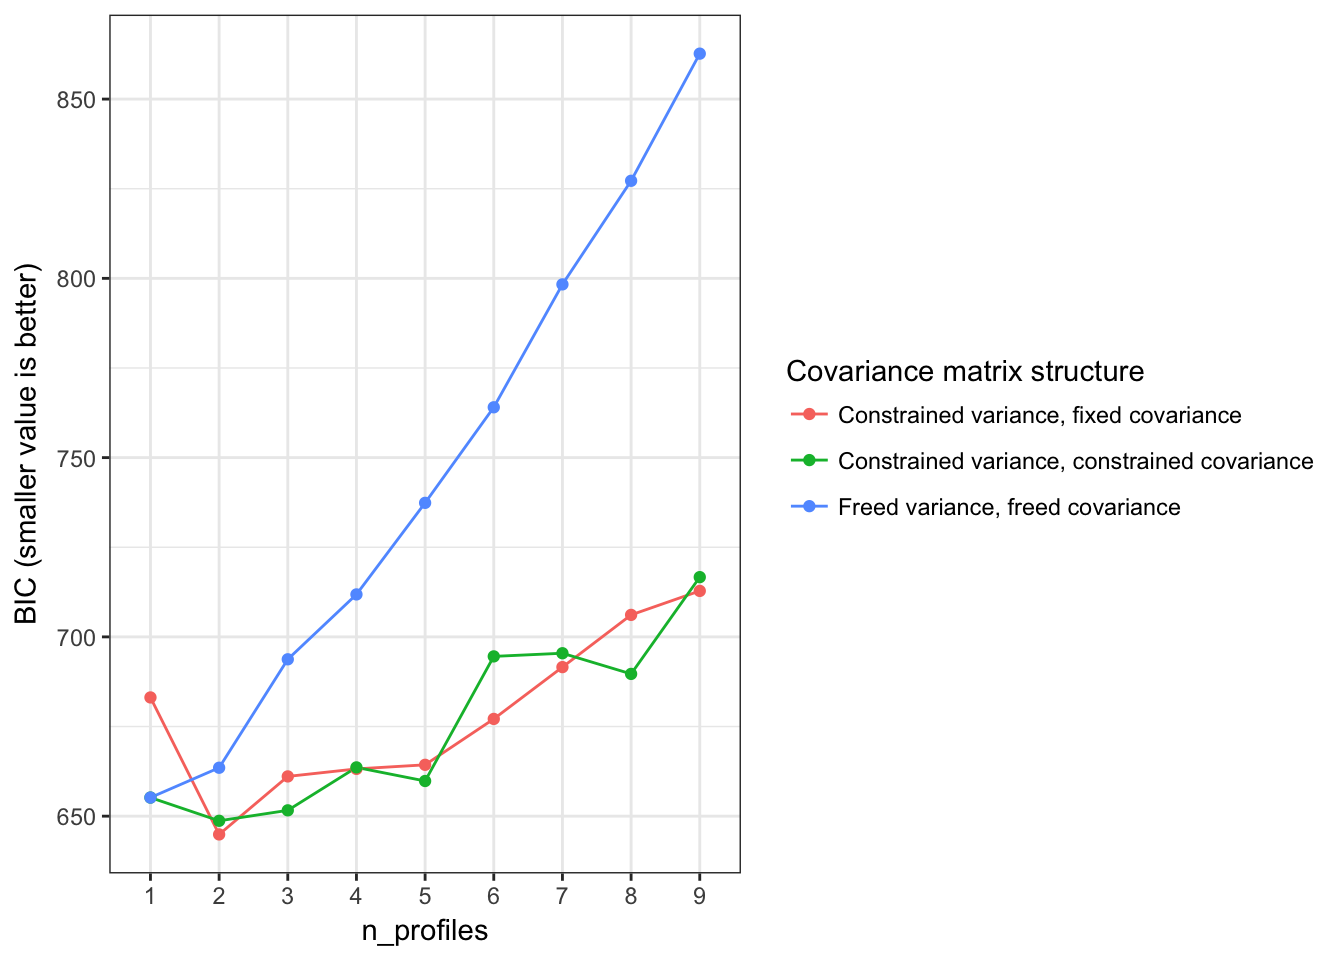
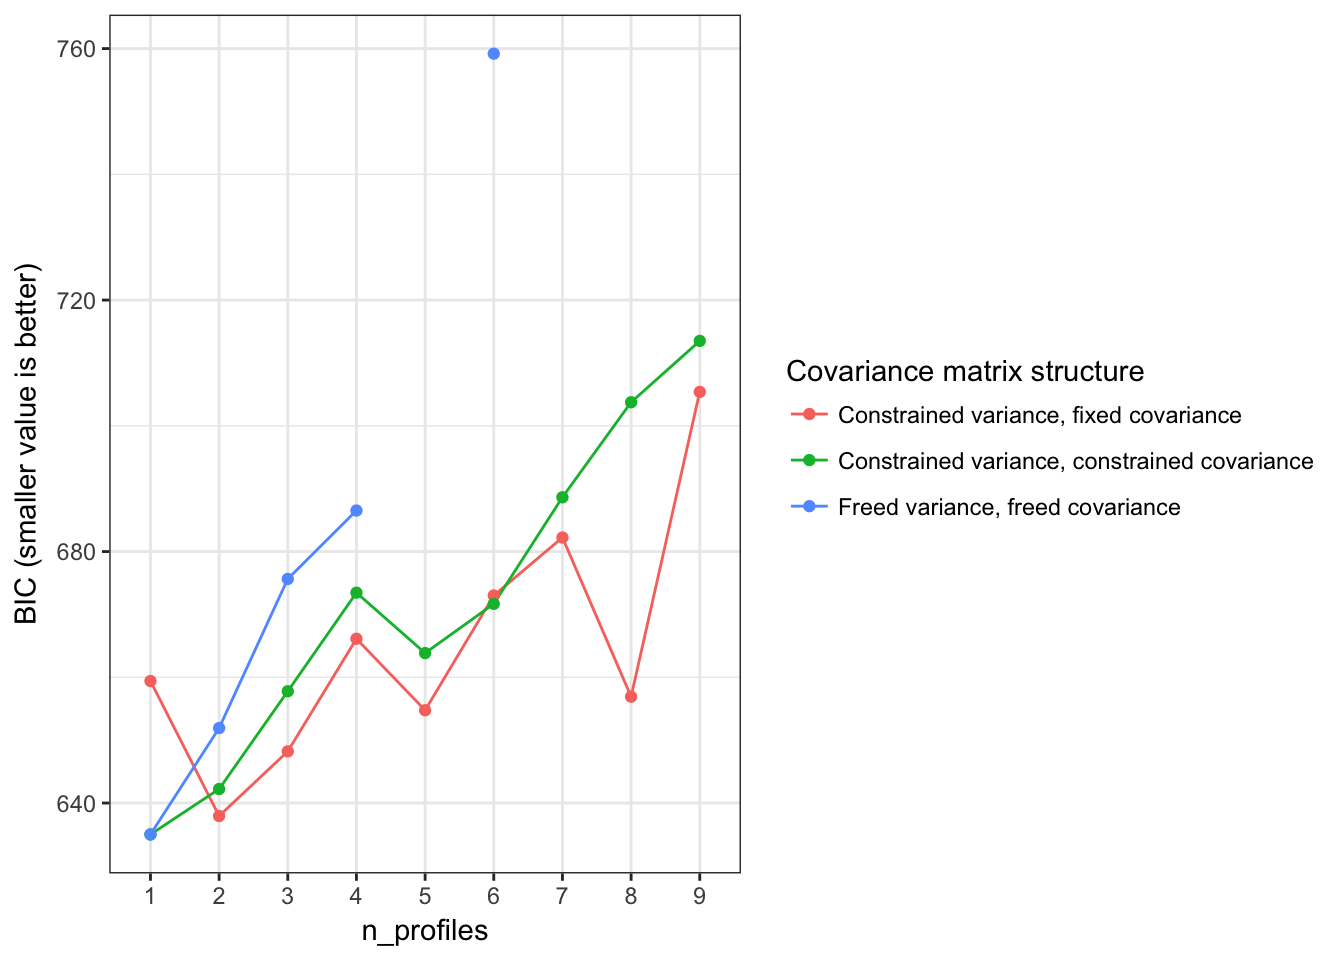
update docs

diff --git a/docs/articles/Introduction_to_tidyLPA.html b/docs/articles/Introduction_to_tidyLPA.html
@@ -73,24 +73,26 @@
 <div class="sourceCode"><pre class="sourceCode r"><code class="sourceCode r">d &lt;-<span class="st"> </span>pisaUSA15
 d &lt;-<span class="st"> </span><span class="kw">sample_n</span>(pisaUSA15, <span class="dv">100</span>)
 <span class="kw"><a href="../reference/compare_models_lpa.html">compare_models_lpa</a></span>(d, broad_interest, enjoyment, self_efficacy, <span class="dt">statistic =</span> <span class="st">"BIC"</span>)</code></pre></div>
+<pre><code>## Warning: Removed 3 rows containing missing values (geom_path).</code></pre>
+<pre><code>## Warning: Removed 4 rows containing missing values (geom_point).</code></pre>
 <p><img src="Introduction_to_tidyLPA_files/figure-html/unnamed-chunk-2-1.png" width="672"></p>
 <p>We can explore a three profile solution, with, for example, <code>4</code> profiles, and varying means across profiles, but equal variances and covariances (specified with model = <code>2</code>):</p>
 <div class="sourceCode"><pre class="sourceCode r"><code class="sourceCode r">m3 &lt;-<span class="st"> </span><span class="kw"><a href="../reference/create_profiles_lpa.html">create_profiles_lpa</a></span>(d, broad_interest, enjoyment, self_efficacy, <span class="dt">n_profiles =</span> <span class="dv">4</span>, <span class="dt">model =</span> <span class="dv">2</span>)</code></pre></div>
 <pre><code>## Model with 4 profiles using the 'varying means, equal variances and covariances' model.</code></pre>
-<pre><code>## AIC is 610.191</code></pre>
-<pre><code>## BIC is 663.601</code></pre>
-<pre><code>## ICL is 682.328</code></pre>
-<pre><code>## Entropy is 0.91543</code></pre>
+<pre><code>## AIC is 619.605</code></pre>
+<pre><code>## BIC is 673.456</code></pre>
+<pre><code>## ICL is 714.647</code></pre>
+<pre><code>## Entropy is 0.82467</code></pre>
 <div class="sourceCode"><pre class="sourceCode r"><code class="sourceCode r"><span class="kw"><a href="../reference/plot_profiles_lpa.html">plot_profiles_lpa</a></span>(m3, <span class="dt">to_center =</span> <span class="ot">TRUE</span>)</code></pre></div>
 <p><img src="Introduction_to_tidyLPA_files/figure-html/unnamed-chunk-3-1.png" width="672"></p>
 <p>See <code><a href="../reference/create_profiles_lpa.html">?create_profiles_lpa</a></code> for a description for the models.</p>
 <p>We could specify them as follows, whereby model <code>1</code> is for a model with varying means across profiles, but equal variances across profiles, and residual covariances fixed to zero, and model <code>3</code> is for a model with varying means, variances, and covariances across profiles:</p>
 <div class="sourceCode"><pre class="sourceCode r"><code class="sourceCode r">m3i &lt;-<span class="st"> </span><span class="kw"><a href="../reference/create_profiles_lpa.html">create_profiles_lpa</a></span>(d, broad_interest, enjoyment, self_efficacy, <span class="dt">n_profiles =</span> <span class="dv">3</span>, <span class="dt">model =</span> <span class="dv">1</span>)</code></pre></div>
 <pre><code>## Model with 3 profiles using the 'varying means, equal variances, and residual covariances fixed to zero' model.</code></pre>
-<pre><code>## AIC is 625.478</code></pre>
-<pre><code>## BIC is 661.085</code></pre>
-<pre><code>## ICL is 711.183</code></pre>
-<pre><code>## Entropy is 0.78626</code></pre>
+<pre><code>## AIC is 612.32</code></pre>
+<pre><code>## BIC is 648.221</code></pre>
+<pre><code>## ICL is 679.774</code></pre>
+<pre><code>## Entropy is 0.85893</code></pre>
 <p>This model has some trouble being fit, so is shown but is not run:</p>
 <div class="sourceCode"><pre class="sourceCode r"><code class="sourceCode r">m3ii &lt;-<span class="st"> </span><span class="kw"><a href="../reference/create_profiles_lpa.html">create_profiles_lpa</a></span>(d, broad_interest, enjoyment, self_efficacy, <span class="dt">n_profiles =</span> <span class="dv">3</span>, <span class="dt">model =</span> <span class="dv">3</span>)</code></pre></div>
 <p>To test profile solutions for a specific model, you can carry out a bootstrapped likelihood-ratio test (presently not run because it can take substantial time):</p>
@@ -98,25 +100,25 @@ d &lt;-<span class="st"> </span><span class="kw">sample_n</span>(pisaUSA15, <spa
 <p>For use in subsequent analyses, we can extract the posterior probabilities by setting <code>return_posterior_probs</code> to <code>TRUE</code>:</p>
 <div class="sourceCode"><pre class="sourceCode r"><code class="sourceCode r">m3 &lt;-<span class="st"> </span><span class="kw"><a href="../reference/create_profiles_lpa.html">create_profiles_lpa</a></span>(d, broad_interest, enjoyment, self_efficacy, <span class="dt">n_profiles =</span> <span class="dv">3</span>, <span class="dt">model =</span> <span class="dv">2</span>, <span class="dt">return_posterior_probs =</span> <span class="ot">TRUE</span>)</code></pre></div>
 <pre><code>## Model with 3 profiles using the 'varying means, equal variances and covariances' model.</code></pre>
-<pre><code>## AIC is 608.386</code></pre>
-<pre><code>## BIC is 651.622</code></pre>
-<pre><code>## ICL is 660.138</code></pre>
-<pre><code>## Entropy is 0.96017</code></pre>
+<pre><code>## AIC is 614.188</code></pre>
+<pre><code>## BIC is 657.782</code></pre>
+<pre><code>## ICL is 700.835</code></pre>
+<pre><code>## Entropy is 0.81746</code></pre>
 <div class="sourceCode"><pre class="sourceCode r"><code class="sourceCode r">m3</code></pre></div>
-<pre><code>## # A tibble: 94 x 5
+<pre><code>## # A tibble: 96 x 5
 ##    broad_interest enjoyment self_efficacy profile posterior_prob
 ##  *          &lt;dbl&gt;     &lt;dbl&gt;         &lt;dbl&gt;   &lt;dbl&gt;          &lt;dbl&gt;
-##  1            2.0       2.0         2.000       1        0.99460
-##  2            3.0       2.2         2.500       3        0.98820
-##  3            2.4       3.0         2.625       3        0.99828
-##  4            1.0       2.2         2.625       1        1.00000
-##  5            3.0       3.0         1.000       3        0.99904
-##  6            3.4       4.0         2.250       2        0.93555
-##  7            4.2       2.8         3.000       2        0.99996
-##  8            2.6       2.8         1.750       3        0.99177
-##  9            4.0       3.0         2.000       2        0.97699
-## 10            3.0       2.4         2.000       3        0.99831
-## # ... with 84 more rows</code></pre>
+##  1            1.8       2.2         1.500       1        0.98140
+##  2            1.6       1.8         1.000       1        0.99966
+##  3            3.0       1.0         2.000       1        0.99754
+##  4            1.0       1.0         2.375       1        0.99946
+##  5            2.6       2.0         2.375       1        0.54725
+##  6            3.6       3.6         2.125       2        0.76158
+##  7            1.4       2.4         3.375       3        0.98946
+##  8            2.2       1.8         2.375       1        0.85657
+##  9            2.2       2.0         3.000       3        0.84778
+## 10            3.6       2.8         2.375       2        0.71316
+## # ... with 86 more rows</code></pre>
 </div>
 </div>
   </div>
